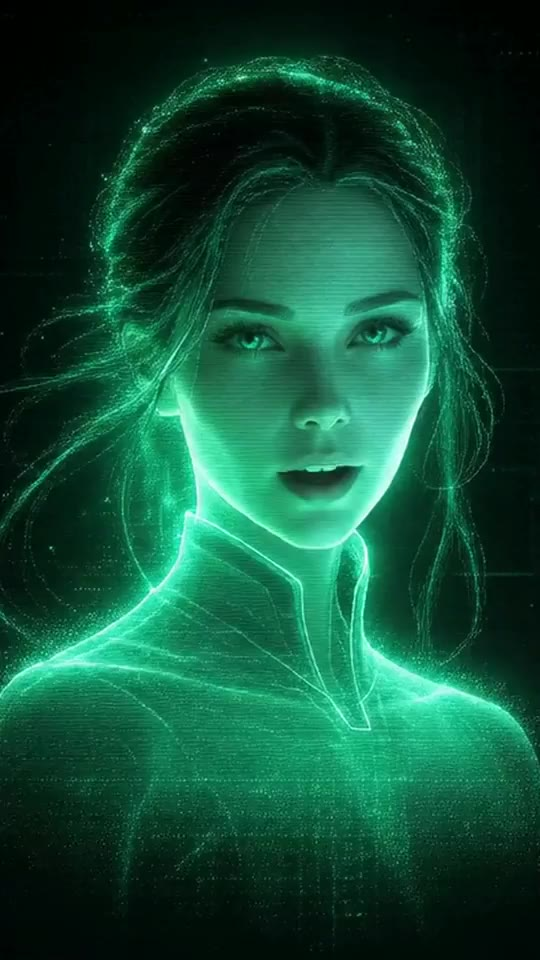
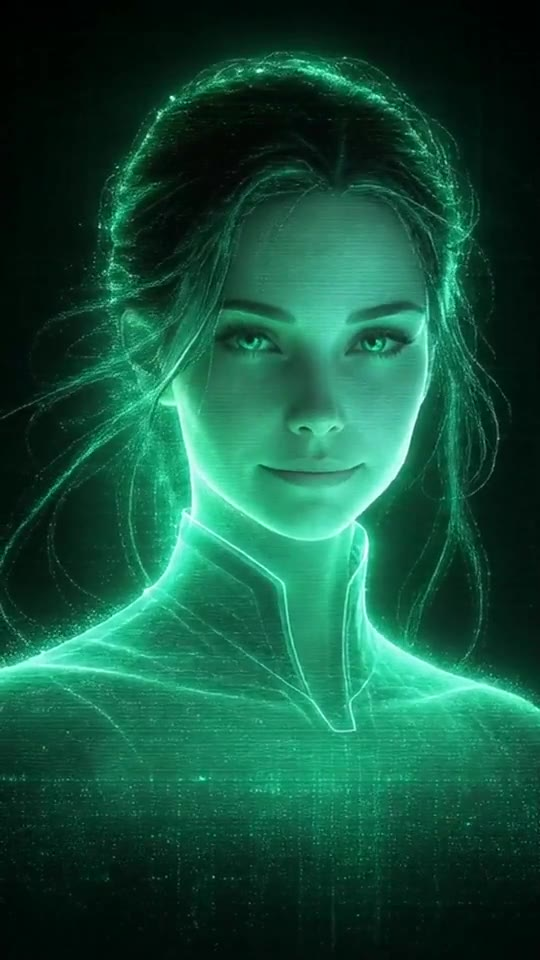
fix: pulserande kantpilar, kontaktkortet klipper inte längre, posters med öppna ögon
- Kantpilarna pulserar grönt i tur och ordning (respekterar
  prefers-reduced-motion) för att bjuda in till navigering.
- Kontakt: .void-inner hade max-height som fick glasramen att klippa
  formulärets nedre delar — kortet växer nu med innehållet och sidan
  scrollar (safe center hindrar toppklipp).
- Nya posterbilder ur filmerna: intro t=11.2s och void t=6.7s — öppen
  blick och leende i stället för blundande rutor.

Claude-Session: https://claude.ai/code/session_0153iws4MkwqEur7Vftyj9JW

diff --git a/app/styles.css b/app/styles.css
@@ -688,3 +688,19 @@ main{position:relative;height:100dvh;overflow:clip;scroll-snap-type:none;scroll-
   .tour-bubble{bottom:calc(88px + env(safe-area-inset-bottom))}
   #void .page-glass{overflow-y:visible}
 }
+
+/* ─── Finputs 2026-09-01 kväll ─── */
+
+/* 1. Kantpilarna pulserar grönt och bjuder in till klick */
+@keyframes edgePulse{0%,100%{box-shadow:0 0 0 0 rgba(67,225,155,0);border-color:rgba(67,225,155,.2);color:rgba(67,225,155,.65)}50%{box-shadow:0 0 16px 2px rgba(67,225,155,.38);border-color:rgba(67,225,155,.6);color:var(--primary)}}
+.fnav-edge{opacity:.85;animation:edgePulse 2.8s ease-in-out infinite}
+.fnav-edge--right{animation-delay:.7s}
+.fnav-edge--down{animation-delay:1.4s}
+.fnav-edge--left{animation-delay:2.1s}
+.fnav-edge:hover{animation:none;opacity:1;box-shadow:0 0 16px 2px rgba(67,225,155,.38)}
+@media (prefers-reduced-motion:reduce){.fnav-edge{animation:none}}
+
+/* 2. Kontakt: kortet växer med innehållet i stället för att klippa det;
+      sidan scrollar och safe center hindrar toppklipp vid högt innehåll */
+.page{align-items:safe center;justify-content:safe center}
+#void .void-inner{max-height:none}
